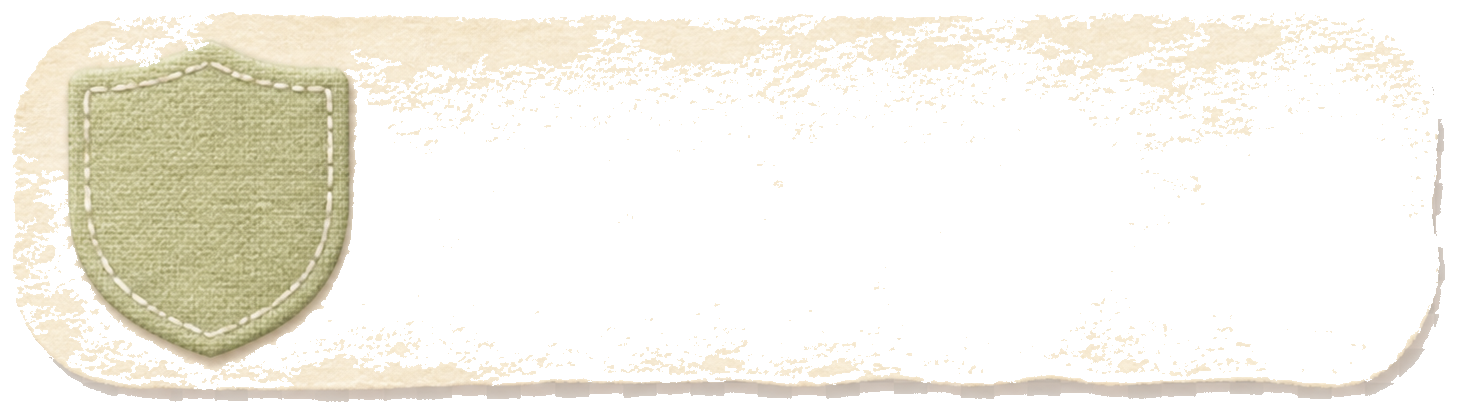
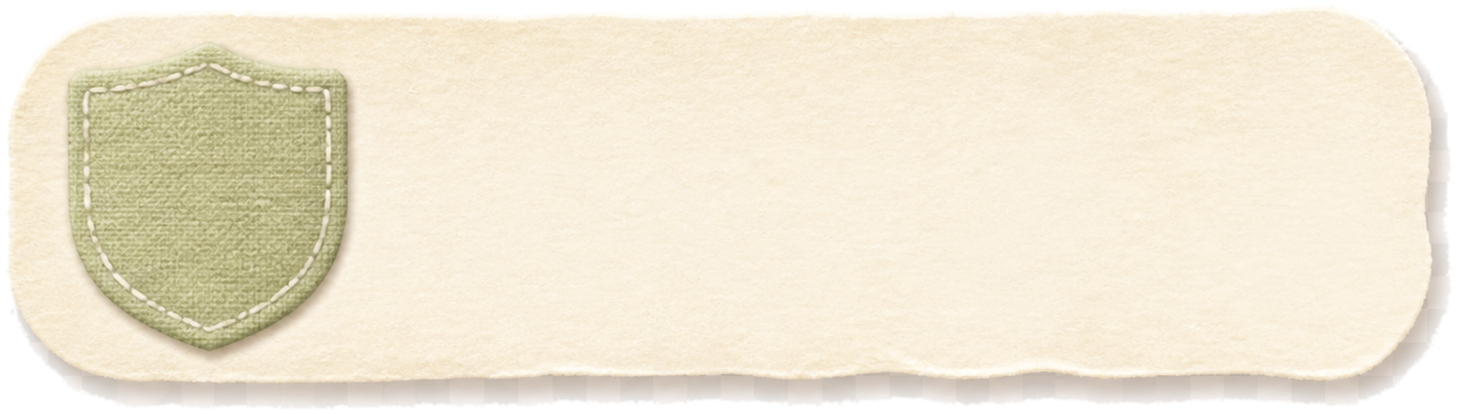
polish home scene asset edges

diff --git a/frontend/app/globals.css b/frontend/app/globals.css
@@ -2592,8 +2592,8 @@ button {
      it or its neighbors, so the whole cluster reads as one arrangement
      instead of five independently-floating stickers. */
   .home-v3-notebook {
-    left: 24%;
-    top: 7%;
+    left: 27%;
+    top: 10%;
     width: 51%;
     margin-top: 0;
     /* Explicit, lowest z-index -- the note/CTA now come *before* the
@@ -2605,8 +2605,8 @@ button {
   }
 
   .home-v3-note {
-    left: 0;
-    top: 0;
+    left: 4%;
+    top: 4%;
     width: 39%;
     z-index: 2;
     transform: rotate(-2deg);
@@ -2634,8 +2634,8 @@ button {
      right edge now runs a little onto the notebook's left edge on
      purpose (the brief explicitly allows the CTA to overlap the cover). */
   .home-v3-cta {
-    left: 2%;
-    top: 45%;
+    left: 5%;
+    top: 48%;
     width: 32%;
     z-index: 2;
     transform: rotate(-1.5deg);
@@ -2652,7 +2652,7 @@ button {
   .home-v3-shortcuts {
     display: block;
     right: -3%;
-    bottom: 9%;
+    bottom: 5%;
     width: 58%;
   }
 
@@ -2732,8 +2732,8 @@ button {
      same left edge as the note above it, small enough gap to read as the
      last item in that column rather than a fourth, unrelated group. */
   .home-v3-privacy {
-    left: 1%;
-    top: 70%;
+    left: 4%;
+    top: 73%;
     bottom: auto;
     width: 23%;
     transform: rotate(-1deg);
@@ -2745,12 +2745,16 @@ button {
     font-size: 10.5px;
   }
 
-  /* Tucked beside the shortcut cluster, on the notebook's cover itself
-     (not the empty desk between the two groups) -- a resting point next
-     to the stickers, not a lone figure floating in the gap. */
+  /* Phase 179 -- was left:46%, which landed right on the vocab sticker's
+     own left edge and read as Shiori accidentally draped across someone
+     else's paper rather than a deliberate resting spot. Moved to the open
+     desk gap directly under the notebook's own bottom edge, between the
+     CTA column (ends ~34%) and the shortcut cluster (starts ~45%) --
+     clearly its own small resting point, not overlapping either group. */
   .home-v3-charm {
-    left: 46%;
-    bottom: 15%;
+    left: 40%;
+    top: 50%;
+    bottom: auto;
     right: auto;
     z-index: 4;
     margin: 0;
